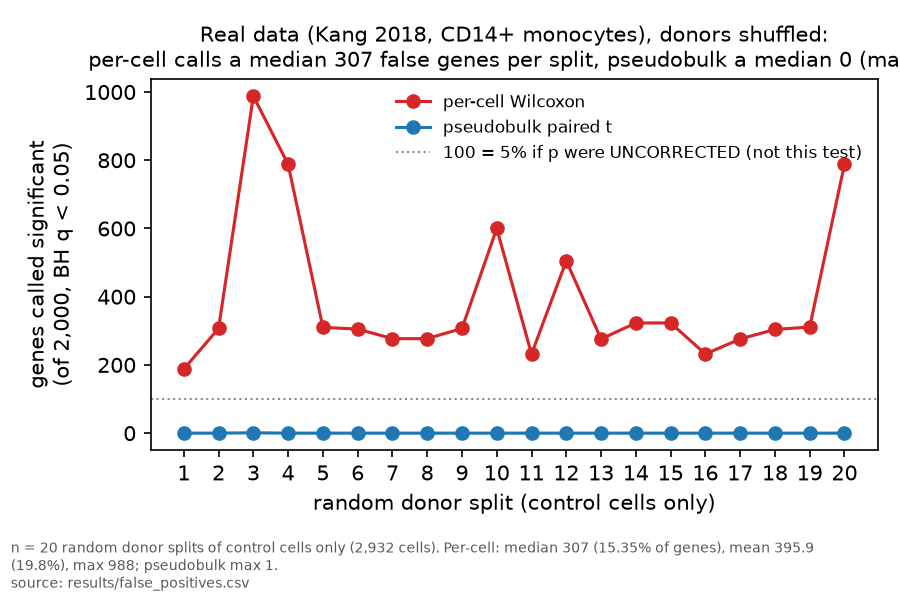
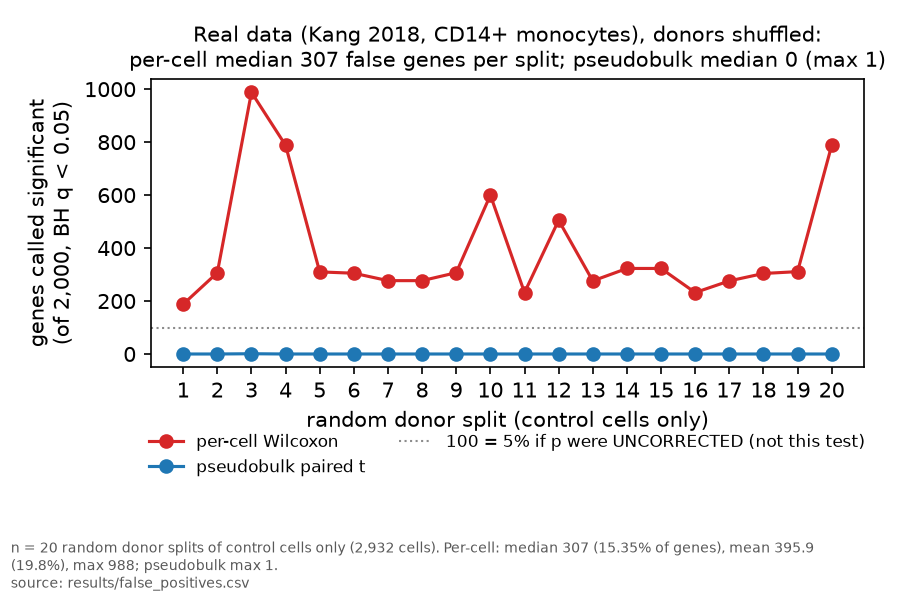
chore(single-cell): autocommit 2026-11-15 14:25 CST

Changed region(s): [[0.0311, 0.15, 0.9644, 0.87], [0.0933, 0.03, 1.0, 0.18]]

diff --git a/scripts/make_figures.py b/scripts/make_figures.py
@@ -134,8 +134,15 @@ def fig_null():
     ax.title.set_fontsize(10)
     ax.set_xticks(x)
     ax.set_xticklabels(df["rep"] + 1)
+    # Every pseudobulk bar is exactly 0, so the ten "0" labels are all at the same
+    # height - and the dotted UNCORRECTED-5% line runs at 25, close enough that at
+    # this scale the digits and the line touch. Place them above the line instead
+    # of beside the bar: a mask cannot help when the line's height depends on
+    # n_genes, and nudging by a few genes just moves the collision.
+    label_y = 0.05 * n_genes * 1.25
     for xi, v in zip(x + 0.2, df["pseudobulk"]):
-        ax.text(xi, v + 6, f"{v:.0f}", ha="center", va="bottom", fontsize=7)
+        ax.text(xi, label_y, f"{v:.0f}", ha="center", va="bottom", fontsize=7,
+                color="0.25")
     ax.set_ylim(0, df["per_cell"].max() * 1.5)
     ax.legend(frameon=False, fontsize=8, loc="upper right")
     note = ""
@@ -218,7 +225,8 @@ def fig_sample_sweep():
     ax.plot(df["sample_sd"], df["pseudobulk"], "o-", color="C0",
             label="pseudobulk paired t")
     for sd, v in zip(df["sample_sd"], df["per_cell"]):
-        ax.text(sd, v + 12, f"{v:.1f}", ha="center", va="bottom", fontsize=7.5)
+        ax.text(sd, v + 12, f"{v:.1f}", ha="center", va="bottom", fontsize=7.5,
+                bbox=dict(facecolor="white", edgecolor="none", pad=0.6, alpha=0.85))
     first, last = df.iloc[0], df.iloc[-1]
     ax.set(xlabel="sample-level variation (donor x condition, log SD)",
            ylabel="false positives (of 500 null genes, BH q < 0.05)",
@@ -246,7 +254,10 @@ def fig_normalisation():
                 label="total-count CPM" if norm == "cpm"
                       else "median-of-ratios")
         for n, v in zip(g["n_donors"], g["fdp"]):
-            ax.text(n, v + (0.008 if norm == "cpm" else -0.008), f"{v:.3f}",
+            # The -0.008 offset put the TOP of the median-of-ratios text on the
+            # dashed nominal-5% line (0.0592 - 0.008 = 0.0512 vs 0.050), so the
+            # line grazed the digits. -0.016 clears it with room to spare.
+            ax.text(n, v + (0.010 if norm == "cpm" else -0.016), f"{v:.3f}",
                     ha="center", va="bottom" if norm == "cpm" else "top",
                     fontsize=7.5)
     ax.axhline(0.05, ls="--", lw=1, color="grey", label="nominal 5%")
@@ -288,13 +299,15 @@ def fig_real_null():
     ax.set(xlabel="random donor split (control cells only)",
            ylabel=f"genes called significant\n(of {n_genes:,}, BH q < 0.05)",
            title="Real data (Kang 2018, CD14+ monocytes), donors shuffled:\n"
-                 f"per-cell calls a median {df['per_cell'].median():.0f} false genes "
-                 f"per split, pseudobulk a median "
-                 f"{df['pseudobulk'].median():.0f} "
+                 f"per-cell median {df['per_cell'].median():.0f} false genes per "
+                 f"split; pseudobulk median {df['pseudobulk'].median():.0f} "
                  f"(max {df['pseudobulk'].max():.0f})")
     ax.title.set_fontsize(10)
     ax.set_xticks(df["split"] + 1)
-    ax.legend(frameon=False, fontsize=8, loc="upper right")
+    # Upper left: the per-cell series climbs left-to-right, so the top-right
+    # corner is exactly where its final point sits.
+    ax.legend(frameon=False, fontsize=8, loc="upper center",
+              bbox_to_anchor=(0.5, -0.18), ncol=2)
     share = df["per_cell"] / df["n_genes_sc"]
     _save(fig, "real_null.png",
           f"n = {len(df)} random donor splits of control cells only "
@@ -354,7 +367,9 @@ def fig_isg_ranking():
     axes[1].set_ylim(0, 13)
     axes[1].set_xticks(x)
     axes[1].set_xticklabels(labels, rotation=35, ha="right", fontsize=8)
-    axes[1].set_ylabel("known interferon genes in the top 12 of the list")
+    # One line, not two: the wrapped version pushed its last word against the
+    # top edge of the canvas.
+    axes[1].set_ylabel("known interferon genes in top 12")
     axes[1].set_title(
         "Interferon genes among the top 12: "
         f"{df['isgs_top12_by_q'].sum()} of {12 * len(df)} by q-value,\n"
@@ -565,8 +580,12 @@ def fig_boundary():
                  f"{r_bnd:.2f}x above the paired t;\n"
                  f"interior fits agree within {100 * (r_int - 1):.2f}%")
     ax.title.set_fontsize(10)
-    ax.legend(fontsize=7.5, loc="upper left", markerscale=2.5, frameon=True,
-              framealpha=0.9, edgecolor="none")
+    # Lower right: the point cloud is a diagonal band rising to the upper right,
+    # so upper left is where the dense boundary points are, not empty space.
+    # Outside the axes: the cloud is a diagonal band and every in-axes corner
+    # holds points, so no rectangle can be guaranteed empty.
+    ax.legend(fontsize=7.5, loc="upper center", bbox_to_anchor=(0.5, -0.16),
+              markerscale=2.5, frameon=False, ncol=2)
 
     ax = axes[1]
     x = np.arange(len(tab))
@@ -639,8 +658,15 @@ def fig_plan_space():
                 fontsize=10, fontweight="bold")
     top = max(plans)
     if cap is not None:
-        ax.axhline(cap, ls="--", lw=1, color="grey",
-                   label=f"{cap} draws requested (NULL_PERMS cap)")
+        # Labelled at the line's right end instead of in a legend: any legend in
+        # the upper area is drawn across this full-width line, and the line is the
+        # point of the figure.
+        ax.axhline(cap, ls="--", lw=1, color="grey")
+        ax.annotate(f"{cap} draws requested (NULL_PERMS cap)", xy=(1.0, cap),
+                    xycoords=("axes fraction", "data"), xytext=(-2, -3),
+                    textcoords="offset points", ha="right", va="top",
+                    fontsize=7.5, color="0.3",
+                    bbox=dict(facecolor="white", edgecolor="none", pad=0.5))
         top = max(top, cap)
     ax.set_ylim(0, top * 1.12)
     ax.set_xticks(x)
@@ -692,14 +718,17 @@ def fig_log2fc_agreement():
         ax.plot(x, b_diff, "o", color="C3", mec="black", mew=0.5,
                 label="before: GLM on total-count CPM, pseudobulk on size factors")
         for xi, v in zip(x, b_diff):
-            ax.text(xi, v * 1.6, f"{v:.2f}", ha="center", va="bottom", fontsize=7)
+            ax.text(xi, v * 1.6, f"{v:.2f}", ha="center", va="bottom", fontsize=7,
+                    bbox=dict(facecolor="white", edgecolor="none", pad=0.6, alpha=0.85))
     ax.plot(x, shown, "o", color="C0", mec="black", mew=0.5,
             label="now: both on median-of-ratios size factors")
     for xi, v, s in zip(x, a_diff, shown):
         ax.text(xi, s * 1.6, "0 (exact)" if v == 0 else f"{v:.0e}", ha="center",
-                va="bottom", fontsize=7)
+                va="bottom", fontsize=7, bbox=dict(facecolor="white", edgecolor="none", pad=0.6, alpha=0.85))
     ax.set_yscale("log")
-    ax.set_ylim(floor, 5)
+    # Bottom at floor/4, not floor: the exact-zero marker is drawn at 2*floor and
+    # its label sat on the axis spine, clipped by the frame.
+    ax.set_ylim(floor / 4, 12)
     ax.set_xlim(-0.6, len(types) - 0.4)
     ax.set_xticks(x)
     ax.set_xticklabels([_tick(t) for t in types], fontsize=7.5)
@@ -712,7 +741,10 @@ def fig_log2fc_agreement():
     ax.set(ylabel="mean |GLM log2FC - pseudobulk log2FC|\n(log2 units, log scale)",
            title=title)
     ax.title.set_fontsize(10)
-    ax.legend(frameon=False, fontsize=7.5, loc="center")
+    # Below the axes rather than in the middle: every x has a vertical stem, so
+    # any in-axes position overlaps one.
+    ax.legend(frameon=False, fontsize=7.5, loc="upper center",
+              bbox_to_anchor=(0.5, -0.16), ncol=1)
 
     ax = axes[1]
     sep = after["glm_separated"].to_numpy()
@@ -822,15 +854,20 @@ def fig_megakaryocyte():
                  f"one donor from >= {first_single} cells up")
     ax.title.set_fontsize(10)
     ax.legend(frameon=False, fontsize=8, loc="upper right")
-    ax.text(0.98, 0.5,
-            f"loosest design: {int(s['donors_in_loosest_design'])} donors, profiles of "
-            f"{int(s['cells_per_profile_min'])}-{int(s['cells_per_profile_max'])} cells\n"
-            f"{int(s['genes_tested'])} genes tested, {int(s['genes_significant'])} called\n"
-            f"minimum detectable effect (80% power): {s['mde_log2_exact_noncentral_t']:.2f} "
-            f"log2,\n{s['mde_log2_exact_bonferroni']:.2f} log2 with Bonferroni; largest "
-            f"observed |log2FC| {s['largest_observed_abs_log2fc']:.2f}",
-            transform=ax.transAxes, ha="right", va="top", fontsize=7.5)
+    # The design note lives in the footer, not inside the axes: at fontsize 7.5
+    # it was wide enough to run through the grey connecting line and the markers.
+    # The footer is wrapped to the figure width by _save(), so it cannot overflow.
+    design_note = (
+        f"loosest usable design: {int(s['donors_in_loosest_design'])} donors, "
+        f"profiles of {int(s['cells_per_profile_min'])}-"
+        f"{int(s['cells_per_profile_max'])} cells; "
+        f"{int(s['genes_tested'])} genes tested, {int(s['genes_significant'])} called; "
+        f"minimum detectable effect (80% power) "
+        f"{s['mde_log2_exact_noncentral_t']:.2f} log2 "
+        f"({s['mde_log2_exact_bonferroni']:.2f} with Bonferroni) vs largest observed "
+        f"|log2FC| {s['largest_observed_abs_log2fc']:.2f}. ")
     _save(fig, "megakaryocyte_donors.png",
+          design_note +
           f"n = {int(s['n_cells'])} megakaryocytes ({int(s['ctrl_cells'])} control, "
           f"{int(s['stim_cells'])} stimulated) across {len(d)} donors; the composition "
           "test (all 8 donors) is unaffected. The sweep counts donors with at least "
